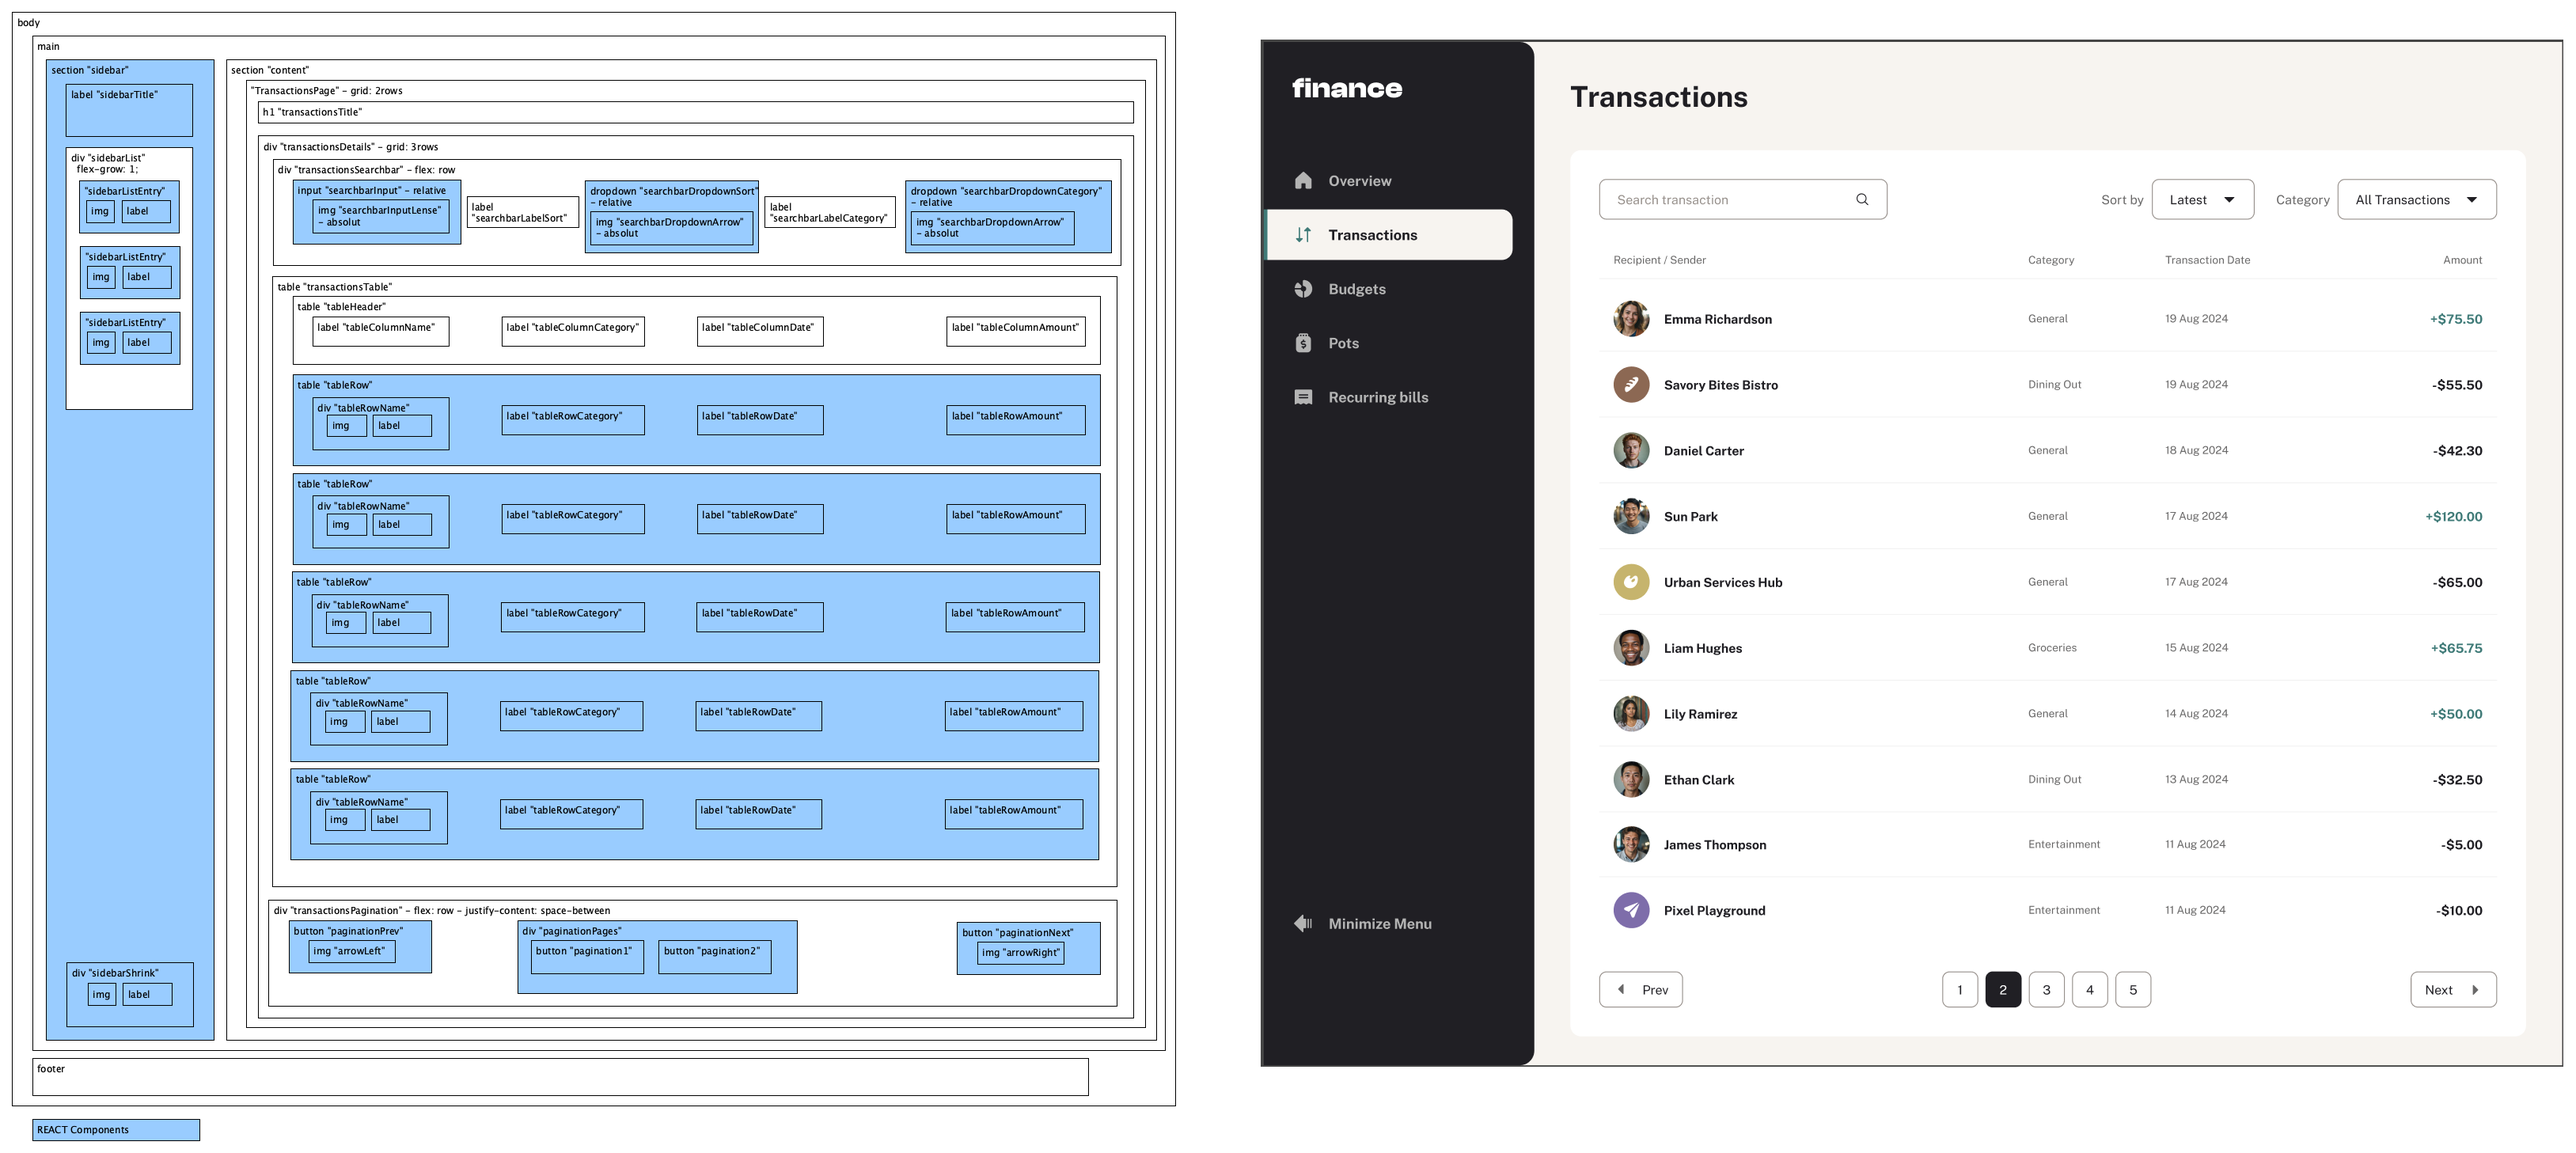
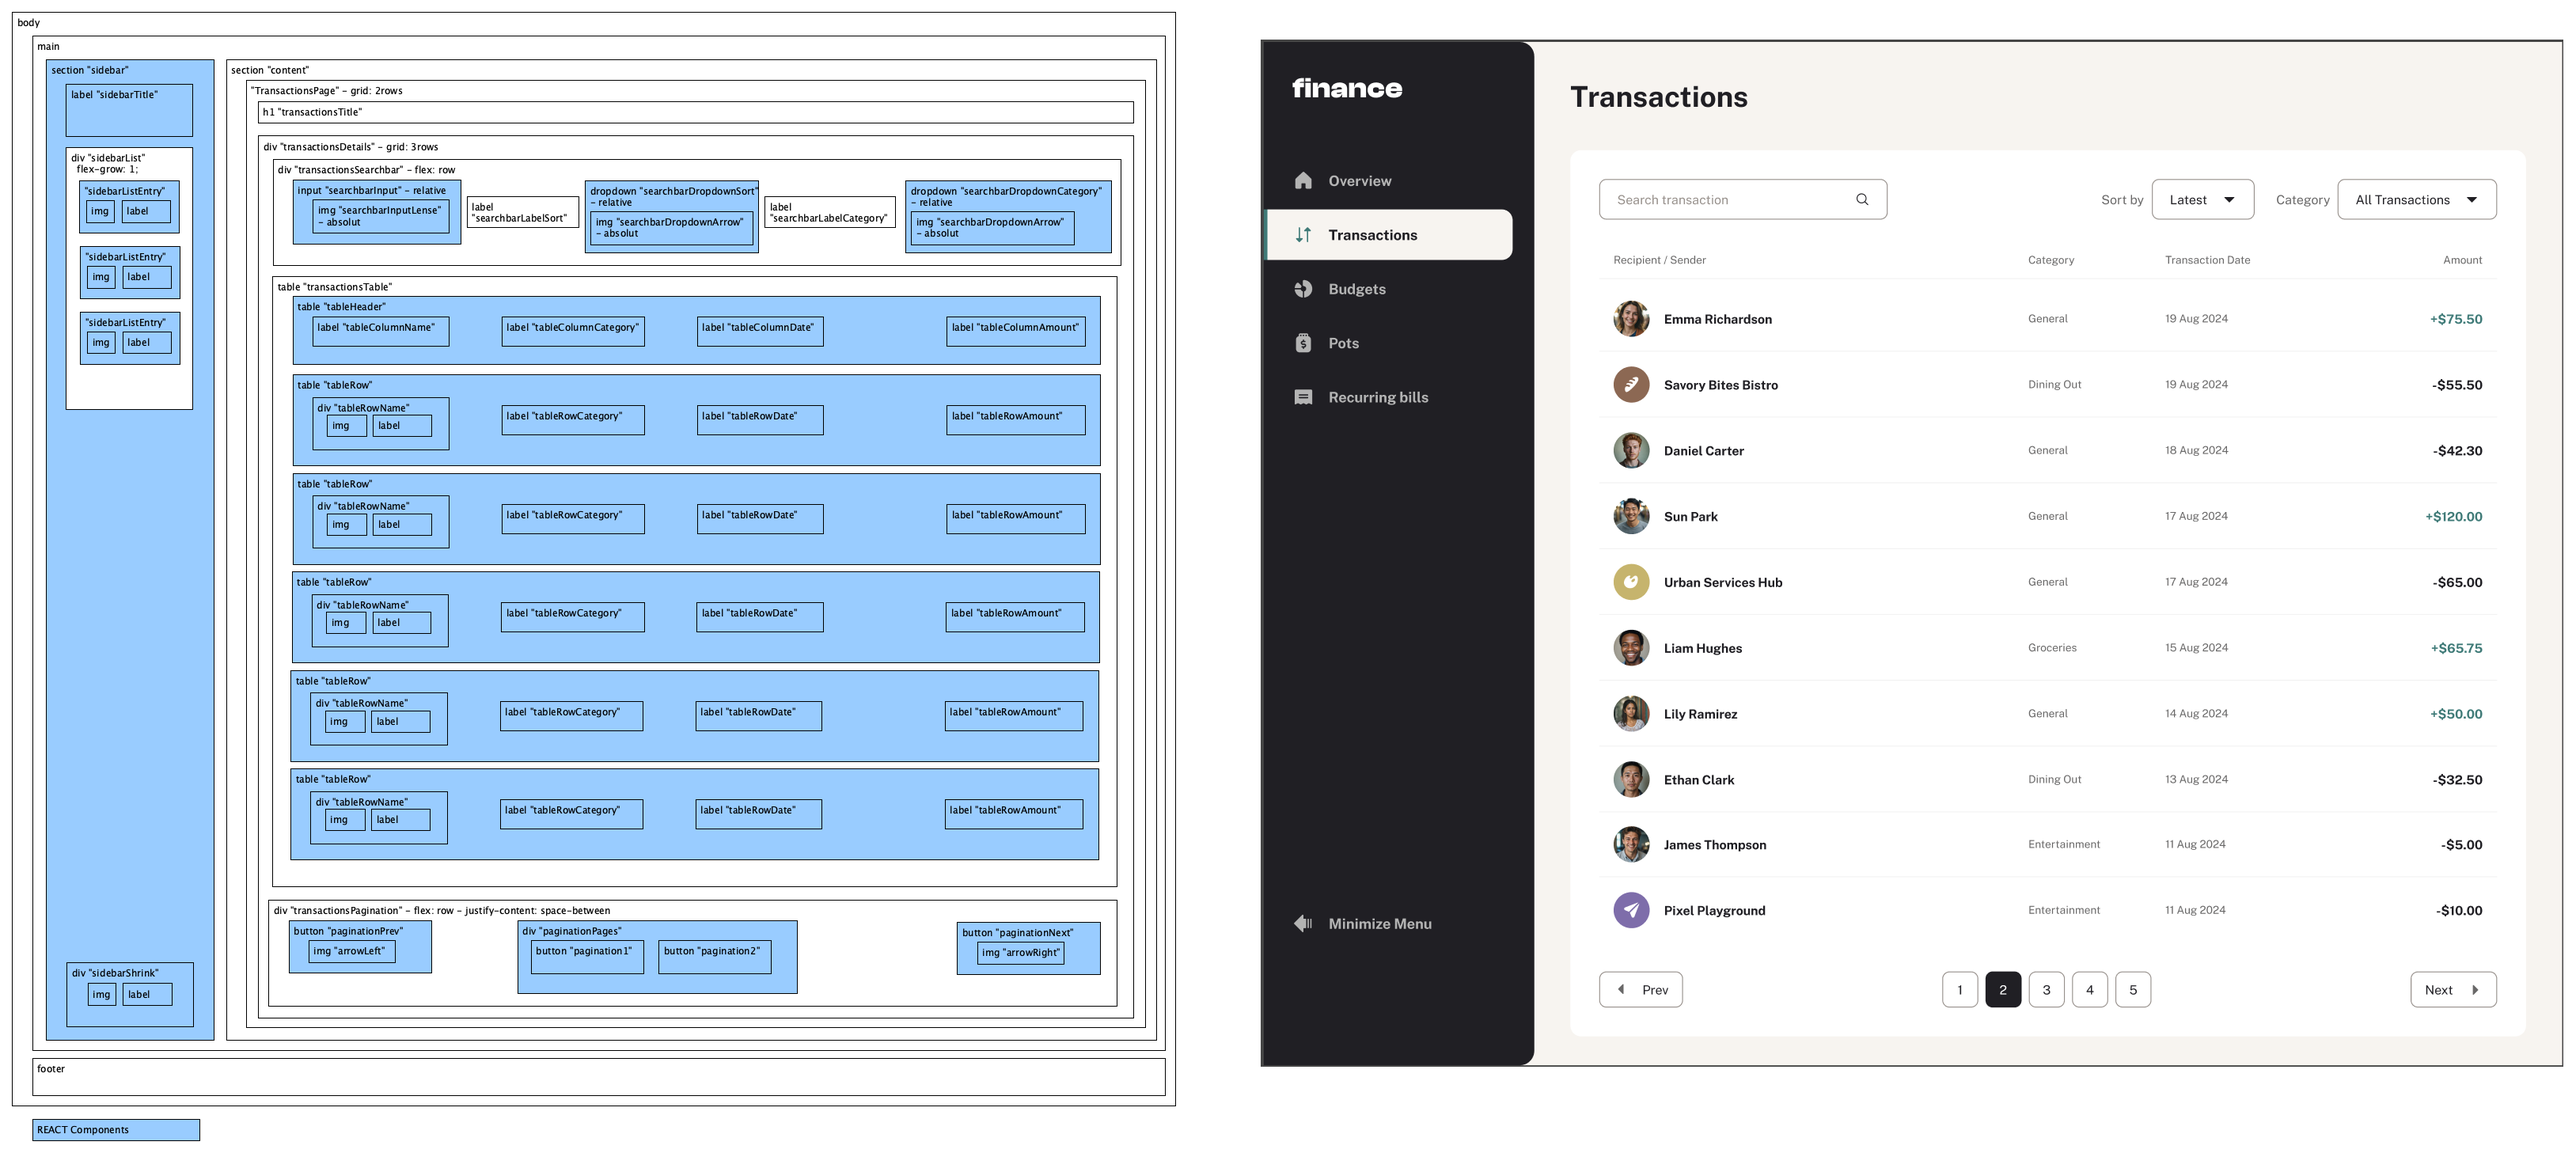
fe-8 add html structure

Changed region(s): [[0.0931, 0.2471, 0.4344, 0.3397]]

diff --git a/frontend/src/Pages/TransactionsPage.tsx b/frontend/src/Pages/TransactionsPage.tsx
@@ -5,6 +5,229 @@ export function TransactionsPage() {
     <>
       <div className="transactionsPage" data-testid="transactions-page">
         <h1>Transactions</h1>
+        <div className="transactionsDetails">
+          <div className="transactionsSearchbar">
+            <div className="searchbarInputContainer">
+              <div className="searchbarInputRelative">
+                <input className="searchbarInput" placeholder="Search transactions" />
+                <img
+                  className="searchbarInputLense"
+                  alt="icon of lense"
+                  aria-hidden="true"
+                  src="./src/assets/images/icon-search.svg"
+                />
+              </div>
+            </div>
+            <label className="searchbarLabelSort">Sort by</label>
+            <select
+              className="searchbarDropdownSort"
+              value="selected"
+              id="options"
+              onChange={() => {}}
+            >
+              <option value="latest">Latest</option>
+              <option value="oldest">Oldest</option>
+              <option value="atoz">A to Z</option>
+              <option value="ztoa">Z to A</option>
+              <option value="highest">Highest</option>
+              <option value="lowest">Lowest</option>
+            </select>
+            <label className="searchbarLabelCategory">Category</label>
+            <select
+              className="searchbarDropdownCategory"
+              value="selected"
+              id="options"
+              onChange={() => {}}
+            >
+              <option value="all">All Transactions</option>
+              <option value="entertainment">Entertainment</option>
+              <option value="bills">Bills</option>
+              <option value="groceries">Groceries</option>
+              <option value="dining">Dining Out</option>
+              <option value="transportation">Transportation</option>
+              <option value="personalcare">Personal Care</option>
+              <option value="education">Education</option>
+              <option value="lifestyle">Lifestyle</option>
+              <option value="shopping">Shopping</option>
+              <option value="general">General</option>
+            </select>
+          </div>
+          <div className="transactionsTable">
+            <div className="transactionsTableHeader">
+              <label className="tableColumnName">Recipient / Sender</label>
+              <label className="tableColumnCategory">Category</label>
+              <label className="tableColumnDate">Transaction Date</label>
+              <label className="tableColumnAmount">Amount</label>
+            </div>
+            <div className="transactionsTableRow">
+              <div className="tableRowPartner">
+                <img
+                  className="tableRowPartnerImage"
+                  alt="icon of payment partner"
+                  aria-hidden="true"
+                  src="./src/assets/images/avatars/emma-richardson.jpg"
+                />
+                <label className="tableRowPartnerName">Emma Richardson</label>
+              </div>
+              <label className="tableRowCategory">General</label>
+              <label className="tableRowDate">19 Aug 2024</label>
+              <label className={'tableRowValue'}>+$75.50</label>
+            </div>
+            <div className="transactionsTableRow">
+              <div className="tableRowPartner">
+                <img
+                  className="tableRowPartnerImage"
+                  alt="icon of payment partner"
+                  aria-hidden="true"
+                  src="./src/assets/images/avatars/savory-bites-bistro.jpg"
+                />
+                <label className="tableRowPartnerName">Savory Bites Bistro</label>
+              </div>
+              <label className="tableRowCategory">Dining Out</label>
+              <label className="tableRowDate">19 Aug 2024</label>
+              <label className={'tableRowValue'}>-$55.50</label>
+            </div>
+            <div className="transactionsTableRow">
+              <div className="tableRowPartner">
+                <img
+                  className="tableRowPartnerImage"
+                  alt="icon of payment partner"
+                  aria-hidden="true"
+                  src="./src/assets/images/avatars/daniel-carter.jpg"
+                />
+                <label className="tableRowPartnerName">Daniel Carter</label>
+              </div>
+              <label className="tableRowCategory">General</label>
+              <label className="tableRowDate">18 Aug 2024</label>
+              <label className={'tableRowValue'}>-$42.30</label>
+            </div>
+            <div className="transactionsTableRow">
+              <div className="tableRowPartner">
+                <img
+                  className="tableRowPartnerImage"
+                  alt="icon of payment partner"
+                  aria-hidden="true"
+                  src="./src/assets/images/avatars/sun-park.jpg"
+                />
+                <label className="tableRowPartnerName">Sun Park</label>
+              </div>
+              <label className="tableRowCategory">General</label>
+              <label className="tableRowDate">17 Aug 2024</label>
+              <label className={'tableRowValue'}>+$120.00</label>
+            </div>
+            <div className="transactionsTableRow">
+              <div className="tableRowPartner">
+                <img
+                  className="tableRowPartnerImage"
+                  alt="icon of payment partner"
+                  aria-hidden="true"
+                  src="./src/assets/images/avatars/urban-services-hub.jpg"
+                />
+                <label className="tableRowPartnerName">Urban Services Hub</label>
+              </div>
+              <label className="tableRowCategory">General</label>
+              <label className="tableRowDate">17 Aug 2024</label>
+              <label className={'tableRowValue'}>-$65.00</label>
+            </div>
+            <div className="transactionsTableRow">
+              <div className="tableRowPartner">
+                <img
+                  className="tableRowPartnerImage"
+                  alt="icon of payment partner"
+                  aria-hidden="true"
+                  src="./src/assets/images/avatars/liam-hughes.jpg"
+                />
+                <label className="tableRowPartnerName">Liam Hughes</label>
+              </div>
+              <label className="tableRowCategory">Groceries</label>
+              <label className="tableRowDate">15 Aug 2024</label>
+              <label className={'tableRowValue'}>+$65.75</label>
+            </div>
+            <div className="transactionsTableRow">
+              <div className="tableRowPartner">
+                <img
+                  className="tableRowPartnerImage"
+                  alt="icon of payment partner"
+                  aria-hidden="true"
+                  src="./src/assets/images/avatars/lily-ramirez.jpg"
+                />
+                <label className="tableRowPartnerName">Lily Ramirez</label>
+              </div>
+              <label className="tableRowCategory">General</label>
+              <label className="tableRowDate">14 Aug 2024</label>
+              <label className={'tableRowValue'}>+$50.00</label>
+            </div>
+            <div className="transactionsTableRow">
+              <div className="tableRowPartner">
+                <img
+                  className="tableRowPartnerImage"
+                  alt="icon of payment partner"
+                  aria-hidden="true"
+                  src="./src/assets/images/avatars/ethan-clark.jpg"
+                />
+                <label className="tableRowPartnerName">Ethan Clark</label>
+              </div>
+              <label className="tableRowCategory">Dining Out</label>
+              <label className="tableRowDate">13 Aug 2024</label>
+              <label className={'tableRowValue'}>-$32.50</label>
+            </div>
+            <div className="transactionsTableRow">
+              <div className="tableRowPartner">
+                <img
+                  className="tableRowPartnerImage"
+                  alt="icon of payment partner"
+                  aria-hidden="true"
+                  src="./src/assets/images/avatars/james-thompson.jpg"
+                />
+                <label className="tableRowPartnerName">James Thompson</label>
+              </div>
+              <label className="tableRowCategory">Entertainment</label>
+              <label className="tableRowDate">11 Aug 2024</label>
+              <label className={'tableRowValue'}>-$5.00</label>
+            </div>
+            <div className="transactionsTableRow">
+              <div className="tableRowPartner">
+                <img
+                  className="tableRowPartnerImage"
+                  alt="icon of payment partner"
+                  aria-hidden="true"
+                  src="./src/assets/images/avatars/pixel-playground.jpg"
+                />
+                <label className="tableRowPartnerName">Pixel Playground</label>
+              </div>
+              <label className="tableRowCategory">Entertainment</label>
+              <label className="tableRowDate">11 Aug 2024</label>
+              <label className={'tableRowValue'}>-$10.00</label>
+            </div>
+          </div>
+          <div className="transactionsPagination">
+            <button className="paginationButtonPrev">
+              <img
+                className="paginationButtonPrevCaret"
+                alt="icon of caret left"
+                aria-hidden="true"
+                src="./src/assets/images/icon-caret-left.svg"
+              />
+              Prev
+            </button>
+            <div className="paginationPages">
+              <button className="pagination1">1</button>
+              <button className="pagination2">2</button>
+              <button className="pagination3">3</button>
+              <button className="pagination4">4</button>
+              <button className="pagination5">5</button>
+            </div>
+            <button className="paginationButtonNext">
+              Next
+              <img
+                className="paginationButtonNextCaret"
+                alt="icon of caret right"
+                aria-hidden="true"
+                src="./src/assets/images/icon-caret-right.svg"
+              />
+            </button>
+          </div>
+        </div>
       </div>
     </>
   );
